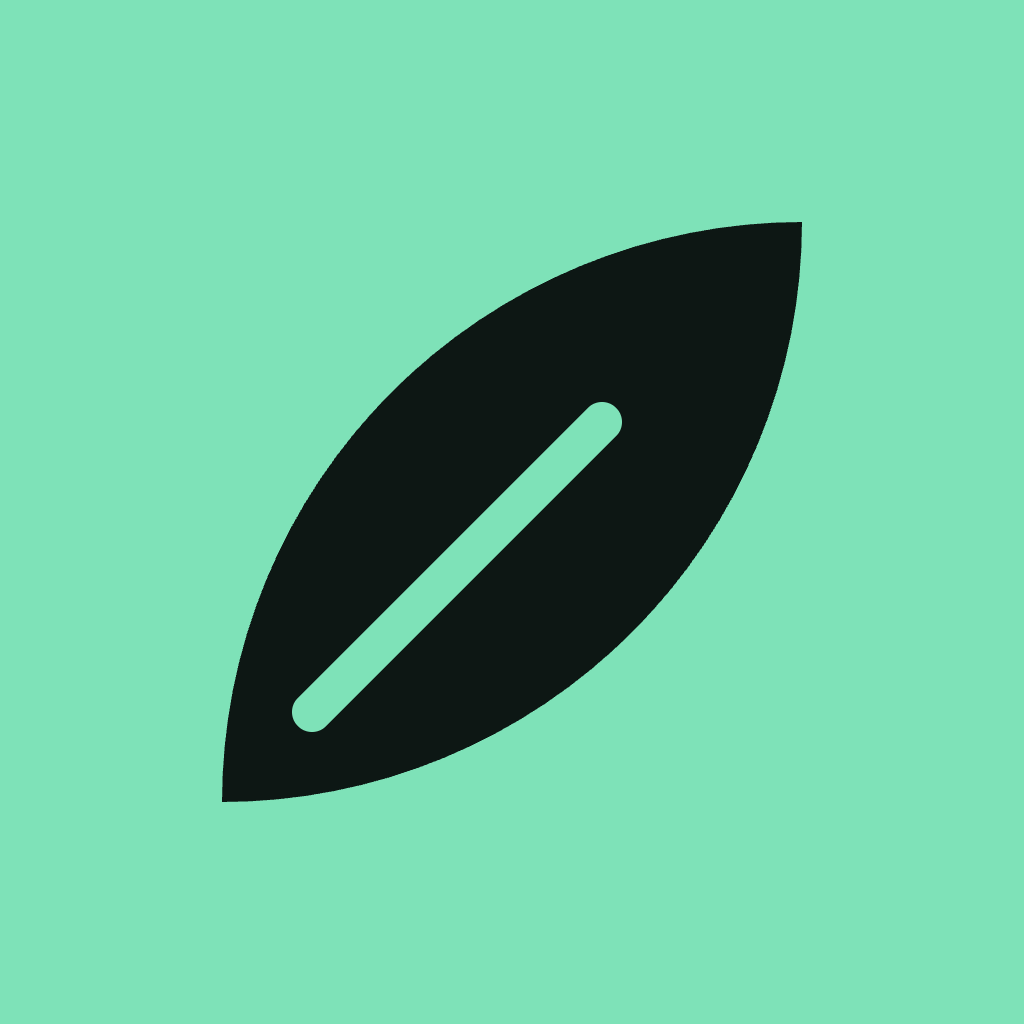
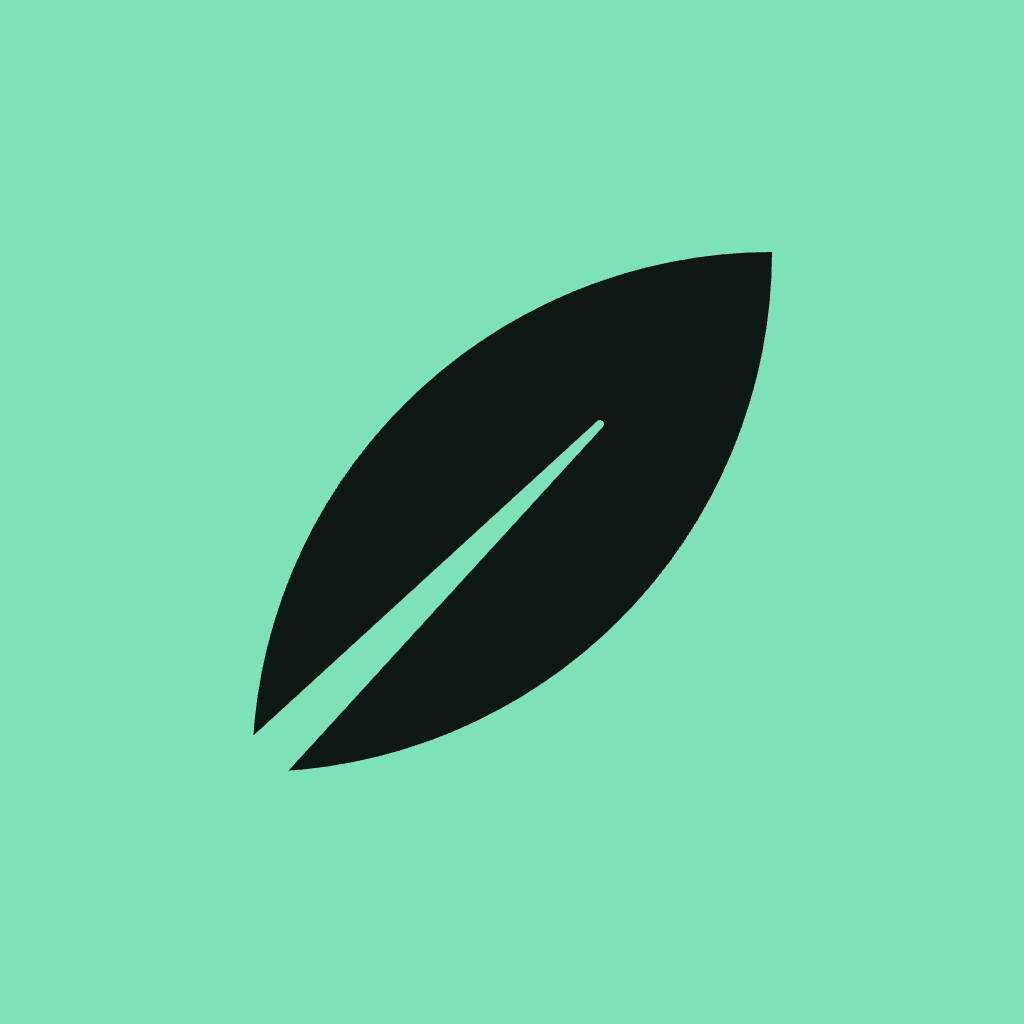
Brand: final mark 1a (leaf with tapered vein), leaf-dot lockups

diff --git a/brand/README.md b/brand/README.md
@@ -4,14 +4,15 @@
 
 ## The mark
 
-A leaf drawn from two equal arcs on the 45° diagonal, with a negative-space midrib running from
-just inside the stem two-thirds of the way to the tip. Fresh (mint), precise (one clean cut), and
-legible down to 16px.
+A leaf drawn from two equal arcs on the 45° diagonal, with a negative-space vein that tapers from
+the stem to a fine point two-thirds of the way to the tip. Fresh (mint), precise (one clean cut),
+and legible down to 16px.
 
 | | Light backgrounds | Dark backgrounds |
 |---|---|---|
 | Mark | `logo/mintwork-mark.svg` (ink) | `logo/mintwork-mark-mint.svg` (mint) |
 | Lockup | `lockup/mintwork-lockup-light.png` | `lockup/mintwork-lockup-dark.png` |
+| Lockup, leaf-dot "i" | `lockup/mintwork-lockup-leafdot-light.png` | `lockup/mintwork-lockup-leafdot-dark.png` |
 | Avatar | `avatar/mintwork-avatar.svg` · `-1024.png` (ink on mint, the default) | `avatar/mintwork-avatar-dark.svg` · `-1024.png` |
 
 Single-color use: `logo/mintwork-mark-white.svg`, or recolor the ink mark.
@@ -30,11 +31,13 @@ Use one brand color per composition; don't add gradients or effects to the mark.
 
 `mintwork`, lowercase, in a heavy geometric sans (SF Pro Display / Inter, ~680 weight, -0.045em
 tracking). The mark sits at the wordmark's x-height to cap height, with a gap of about 0.2× its width.
+The leaf-dot variant replaces the dot of the *i* with the mark; use it for headers and social
+images, and the plain wordmark wherever the mark already appears next to it at small sizes.
 
 ## Rules
 
 - Clear space around the mark: at least the midrib's length on every side.
-- Minimum size: 16px (use `favicon/favicon.svg`, which has a heavier midrib for small sizes).
+- Minimum size: 16px.
 - Don't rotate, outline, recolor outside the palette, or put the mark on busy imagery.
 
 ## Files
